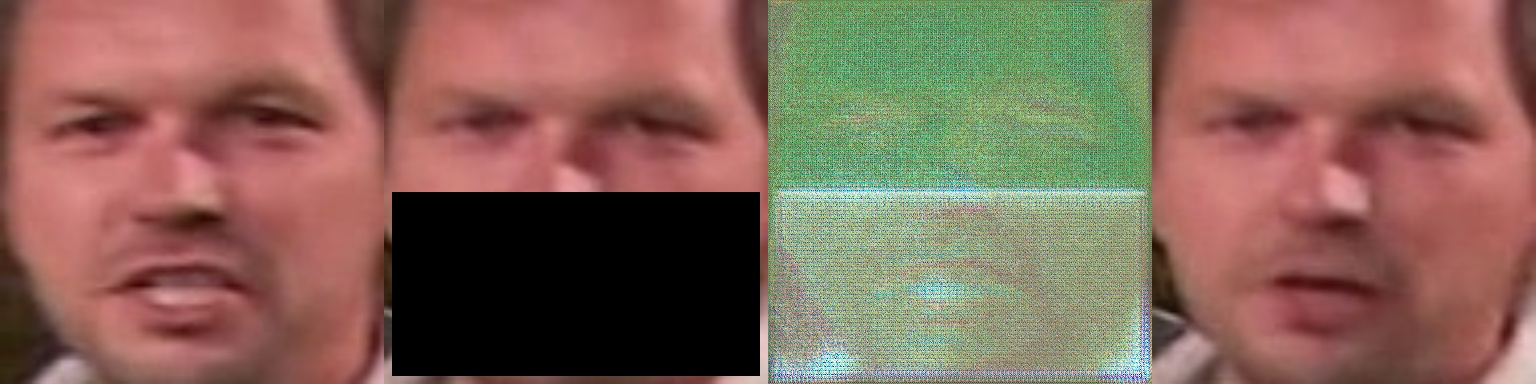
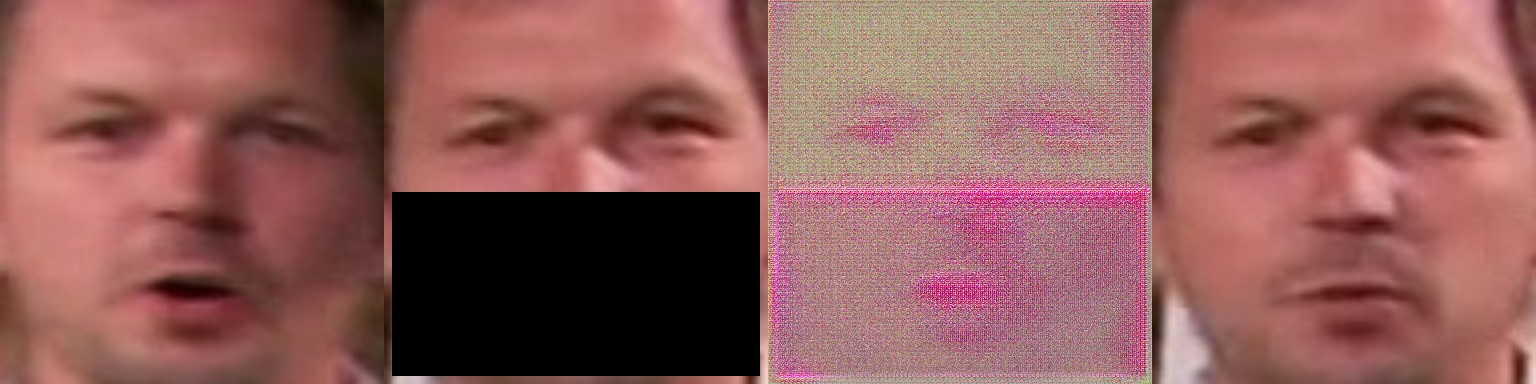
no_comment

diff --git a/2.py b/2.py
@@ -93,7 +93,7 @@ hparams.batch_size=2  #=====取消多进程方便debug
 hparams.log_interval=10
 hparams.checkpoint_interval=500
 hparams.num_checkpoints=5 # 最多存5个checkpoints
-
+hparams.syncnet_wt=0.003
 
 
 args.syncnet_checkpoint_path='weight\syncnet\ex\syncnet_checkpoint_384_64_000000035_2023-12-15.pth'
@@ -403,7 +403,7 @@ def train(device, model, disc, train_data_loader, test_data_loader, optimizer, d
                 disc_optimizer.zero_grad()
 
                 with torch.cuda.amp.autocast(enabled=False):
-                    g = model(indiv_mels, x)
+                    g = model(indiv_mels, x) #=========wav2lip模型, 喂入 一组mel, 这里面是5个mel, 一组人脸. 生成一组人脸.
 
                     if hparams.syncnet_wt > 0. and syncnet is not None:
                         try:
@@ -441,7 +441,10 @@ def train(device, model, disc, train_data_loader, test_data_loader, optimizer, d
 
                 loss.backward()
                 optimizer.step()
-
+                #============训练够了就开始加入sync网络.
+                if loss < .75:
+                        hparams.set_hparam('syncnet_wt', 0.03)
+                        syncnet_wt=0.03
                 ### Remove all gradients before Training disc
                 disc_optimizer.zero_grad()
 

diff --git a/1.py b/1.py
@@ -221,7 +221,7 @@ class Dataset(object):
 
             # H x W x 3 * T
             # x = np.concatenate(window, axis=2) / 255. # [0, 1]
-            x = (np.concatenate(window, axis=2) - 127.5) / 127.5  # [-1, 1] 归一化.
+            x = (np.concatenate(window, axis=2) - 127.5) / 127.5  # [-1, 1] 归一化. #================归一化之后的图片!!!!!!!!!!!!!!这是错的!~因为inference里面乘以255的.
             x = x.transpose(2, 0, 1)
             x = x[:, x.shape[1]//2:] #========x只保存嘴部照片.
 

diff --git a/inference.py b/inference.py
@@ -268,8 +268,8 @@ def main():
 		with torch.no_grad():
 			pred = model(mel_batch, img_batch)
 
-		pred = pred.cpu().numpy().transpose(0, 2, 3, 1) * 255.
-		
+		pred = pred.cpu().numpy().transpose(0, 2, 3, 1) 
+		pred=pred*127.5-127.5
 		for p, f, c in zip(pred, frames, coords):
 			y1, y2, x1, x2 = c
 			p = cv2.resize(p.astype(np.uint8), (x2 - x1, y2 - y1))

diff --git a/3.py b/3.py
@@ -268,7 +268,8 @@ def main():
 		with torch.no_grad():
 			pred = model(mel_batch, img_batch)
 
-		pred = pred.cpu().numpy().transpose(0, 2, 3, 1) * 255.
+		pred = pred.cpu().numpy().transpose(0, 2, 3, 1) 
+		pred=pred*127.5-127.5
 		
 		for p, f, c in zip(pred, frames, coords):
 			y1, y2, x1, x2 = c
